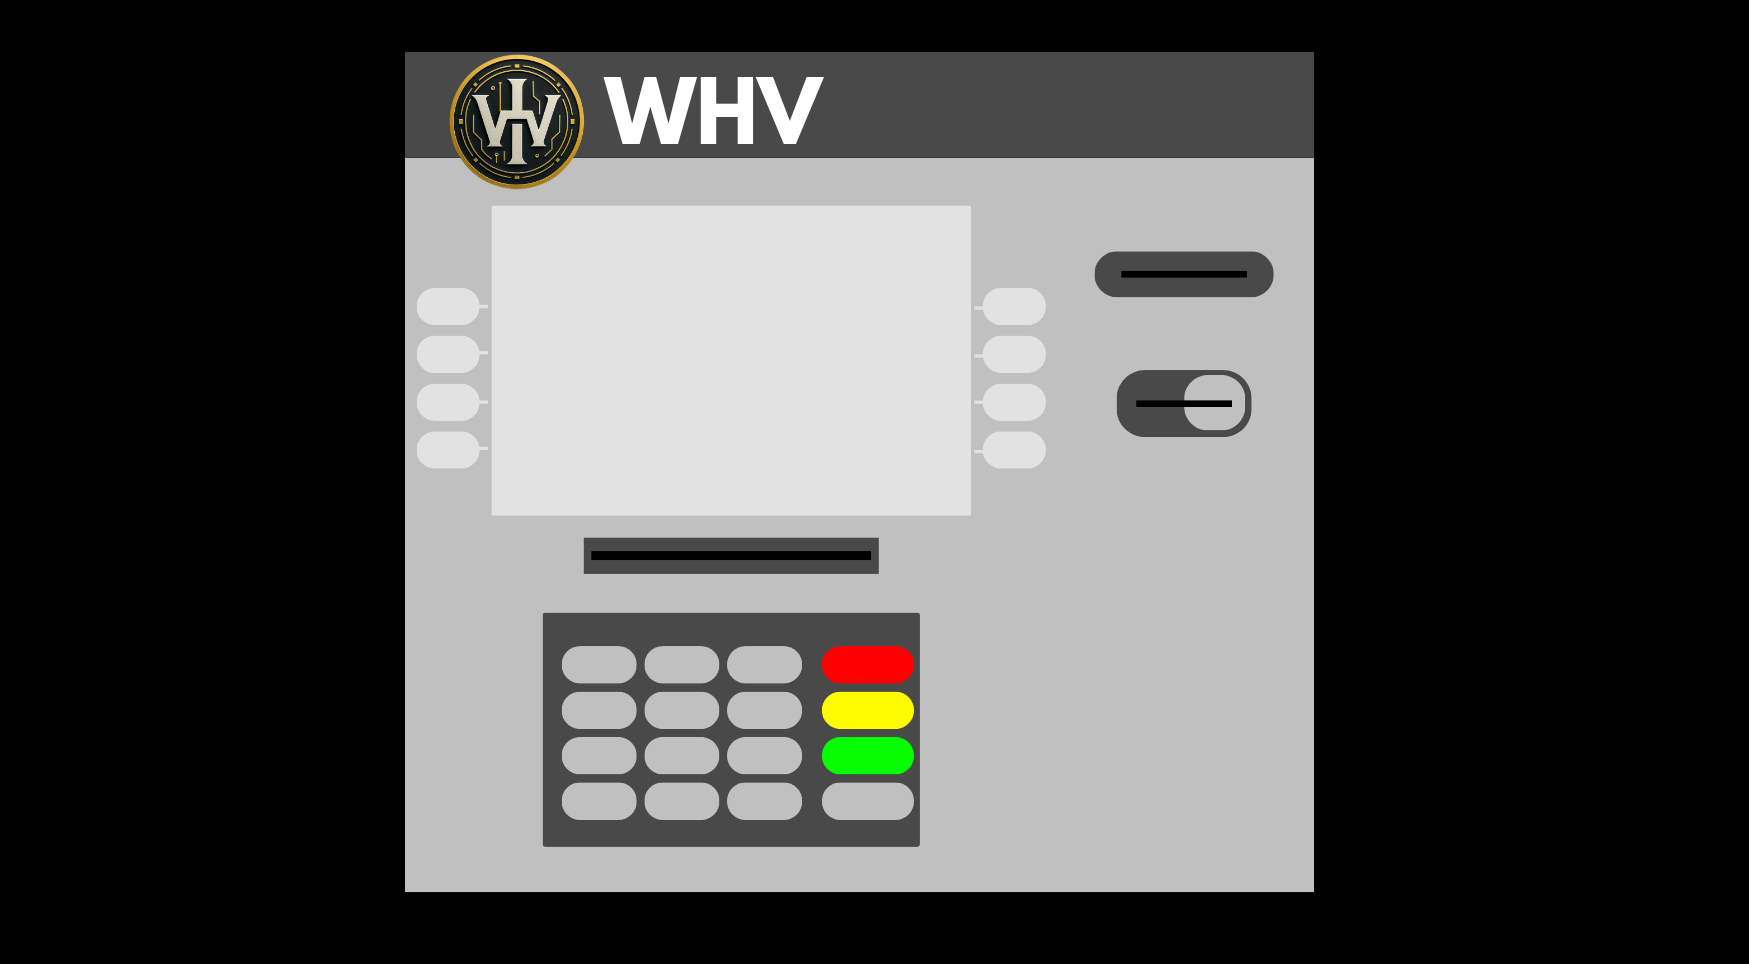
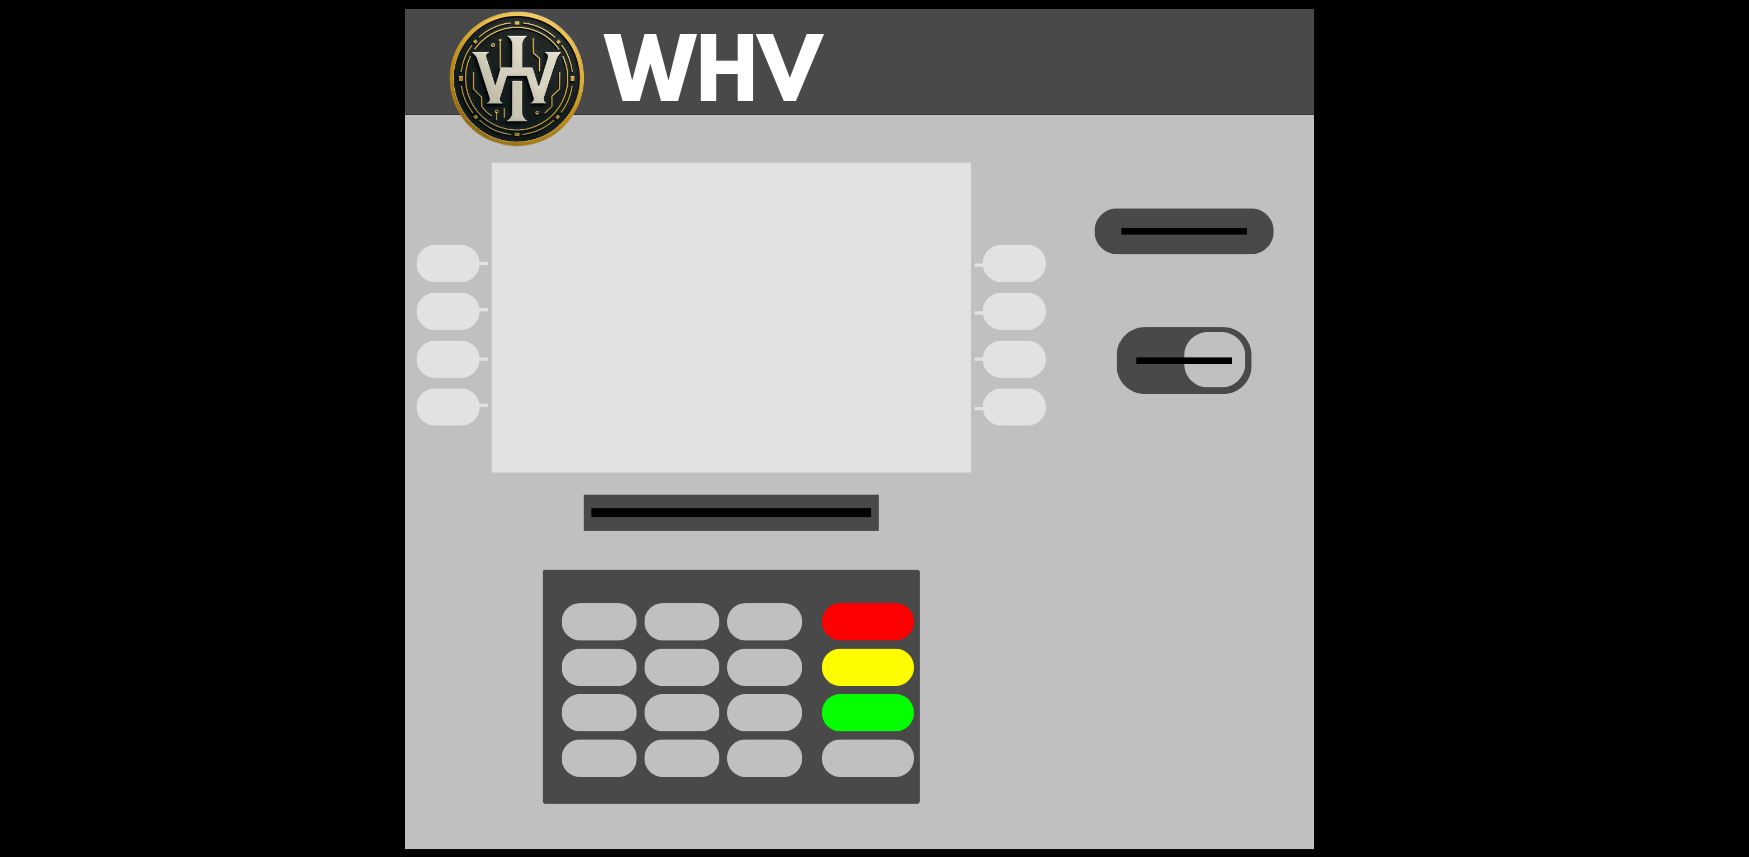
tela mod

diff --git a/PI/padrão.css b/PI/padrão.css
@@ -1,16 +1,19 @@
 body {
         margin: 0;
         padding: 0;
-        background-image: url("telafundo.png");
         background-repeat: no-repeat;
-        background-position: center center;
         background-attachment: fixed; /* Fixa no fundo */
-        background-size: cover; /* ou 'contain' se quiser toda visível */
+        background-color: black;
+        
 }
 .PAI{
     position: relative;
-    width: 500px;
-    height: 500px;
+    width: 1200px;
+    height: 768px;
+    margin: 0 auto;
+    background-image: url('telafundo.png');
+    background-size: cover;
+    background-position: center;
 }
   
 .teclado-pai {
@@ -99,8 +102,8 @@ body {
     display: flex;
     flex-direction: row;
     gap: 12px;
-    margin-top: 174.5px;
-    margin-left: 455px;
+    margin-top: 147px;
+    margin-left: 180px;
     position: absolute;
 }
 .tela {
